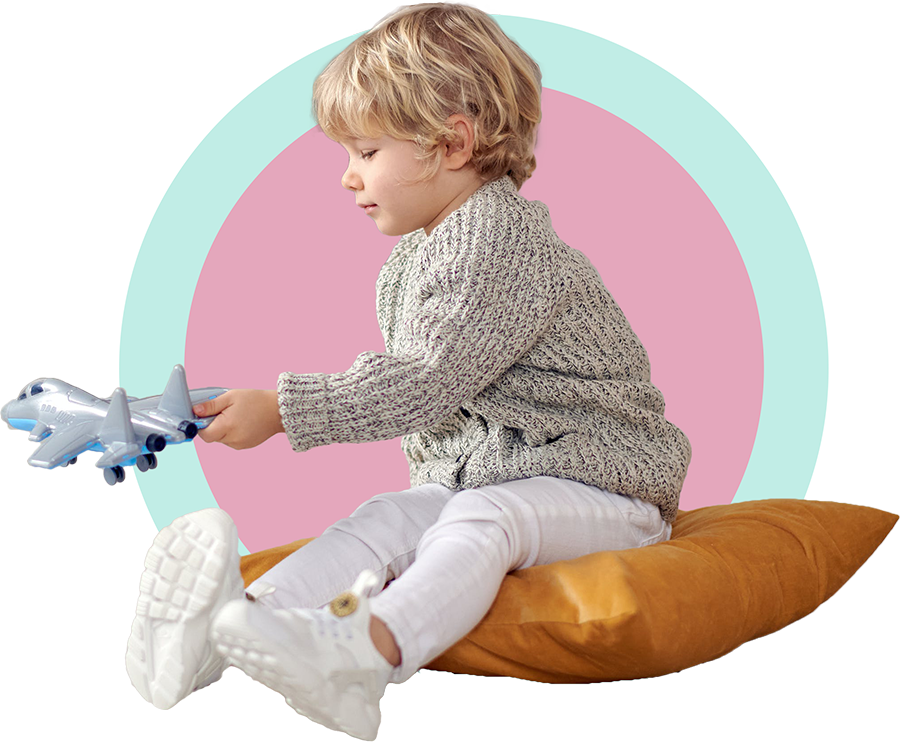
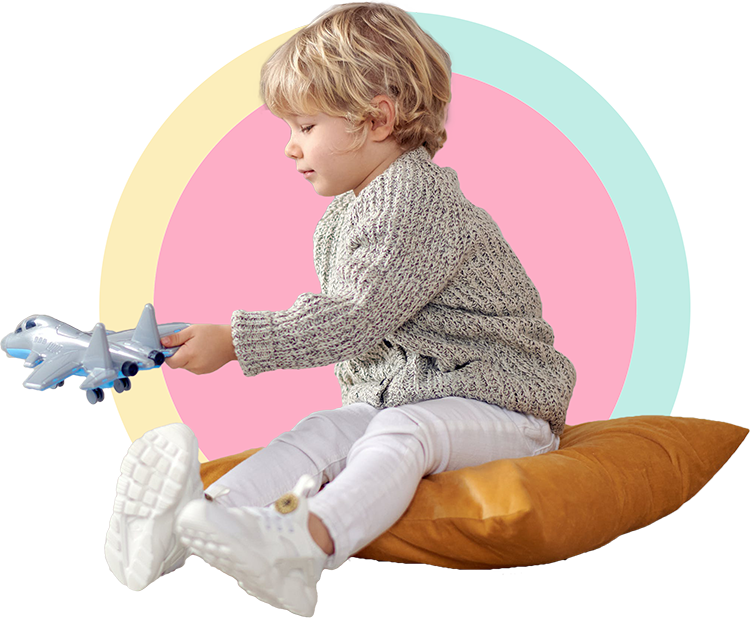
Add subpages.

Changed region(s): [[0.1227, 0.0307, 0.46, 0.5534], [0.5827, 0.123, 0.8587, 0.7071], [0.1533, 0.5841, 0.46, 0.7686]]

diff --git a/index.html b/index.html
@@ -5,7 +5,7 @@
         <meta name="viewport" content="width=device-width, initial-scale=1.0">
         <meta http-equiv="X-UA-Compatible" content="ie=edge">
         <title>HeartForward</title>
-        <link rel="stylesheet" href="style.css">
+        <link rel="stylesheet" href="styles/style.css">
         <link rel="preconnect" href="https://fonts.googleapis.com">
         <link rel="preconnect" href="https://fonts.gstatic.com" crossorigin>
         <link href="https://fonts.googleapis.com/css2?family=Poppins&display=swap" rel="stylesheet"> 
@@ -21,16 +21,16 @@
                     <a href="index.html">Home</a>
                 </li>
                 <li>
-                    <a href="index.html">About Me</a>
+                    <a href="pages/about-me.html">About Me</a>
                 </li>
                 <li>
-                    <a href="index.html">Services</a>
+                    <a href="pages/services.html">Services</a>
                 </li>
                 <li>
-                    <a href="index.html">FAQ</a>
+                    <a href="pages/faq.html">FAQ</a>
                 </li>
                 <li>
-                    <a href="index.html">Contact</a>
+                    <a href="pages/contact.html">Contact</a>
                 </li>
             </ul>
             
@@ -51,7 +51,7 @@
                     <button class="button-1" type="button"><p>CONTACT ME</p></button> 
                 </div>
                 <div class="landing-imgBx">
-                    <img src="images/boy-1.png" alt="Heart Forward Logo" width="500px">
+                    <img src="images/boy-1.png" alt="Heart Forward Logo" width="550px">
                 </div>
             </div>
             

diff --git a/pages/about-me.html b/pages/about-me.html
@@ -1,0 +1,43 @@
+<!DOCTYPE html>
+<html lang="en-nz">
+    <head>
+        <meta charset="UTF-8">
+        <meta name="viewport" content="width=device-width, initial-scale=1.0">
+        <meta http-equiv="X-UA-Compatible" content="ie=edge">
+        <title>HeartForward</title>
+        <link rel="stylesheet" href="../styles/style.css">
+        <link rel="preconnect" href="https://fonts.googleapis.com">
+        <link rel="preconnect" href="https://fonts.gstatic.com" crossorigin>
+        <link href="https://fonts.googleapis.com/css2?family=Poppins&display=swap" rel="stylesheet"> 
+    </head>
+<body>
+    <nav>
+        <div class="logo">
+            <img srcset="../images/lastry.png" alt="Heart Forward Logo">
+        </div>
+        <ul class="nav-links">
+            <li>
+                <a href="../index.html">Home</a>
+            </li>
+            <li>
+                <a href="about-me.html">About Me</a>
+            </li>
+            <li>
+                <a href="services.html">Services</a>
+            </li>
+            <li>
+                <a href="faq.html">FAQ</a>
+            </li>
+            <li>
+                <a href="contact.html">Contact</a>
+            </li>
+        </ul>
+        
+        <div class="burger">
+            <div class="line1"></div>
+            <div class="line2"></div>
+            <div class="line3"></div>
+        </div>
+    </nav>
+</body>
+</html>

diff --git a/pages/contact.html b/pages/contact.html
@@ -1,0 +1,43 @@
+<!DOCTYPE html>
+<html lang="en-nz">
+    <head>
+        <meta charset="UTF-8">
+        <meta name="viewport" content="width=device-width, initial-scale=1.0">
+        <meta http-equiv="X-UA-Compatible" content="ie=edge">
+        <title>HeartForward</title>
+        <link rel="stylesheet" href="../styles/style.css">
+        <link rel="preconnect" href="https://fonts.googleapis.com">
+        <link rel="preconnect" href="https://fonts.gstatic.com" crossorigin>
+        <link href="https://fonts.googleapis.com/css2?family=Poppins&display=swap" rel="stylesheet"> 
+    </head>
+<body>
+    <nav>
+        <div class="logo">
+            <img srcset="../images/lastry.png" alt="Heart Forward Logo">
+        </div>
+        <ul class="nav-links">
+            <li>
+                <a href="../index.html">Home</a>
+            </li>
+            <li>
+                <a href="about-me.html">About Me</a>
+            </li>
+            <li>
+                <a href="services.html">Services</a>
+            </li>
+            <li>
+                <a href="faq.html">FAQ</a>
+            </li>
+            <li>
+                <a href="contact.html">Contact</a>
+            </li>
+        </ul>
+        
+        <div class="burger">
+            <div class="line1"></div>
+            <div class="line2"></div>
+            <div class="line3"></div>
+        </div>
+    </nav>
+</body>
+</html>

diff --git a/pages/faq.html b/pages/faq.html
@@ -1,0 +1,43 @@
+<!DOCTYPE html>
+<html lang="en-nz">
+    <head>
+        <meta charset="UTF-8">
+        <meta name="viewport" content="width=device-width, initial-scale=1.0">
+        <meta http-equiv="X-UA-Compatible" content="ie=edge">
+        <title>HeartForward</title>
+        <link rel="stylesheet" href="../styles/style.css">
+        <link rel="preconnect" href="https://fonts.googleapis.com">
+        <link rel="preconnect" href="https://fonts.gstatic.com" crossorigin>
+        <link href="https://fonts.googleapis.com/css2?family=Poppins&display=swap" rel="stylesheet"> 
+    </head>
+<body>
+    <nav>
+        <div class="logo">
+            <img srcset="../images/lastry.png" alt="Heart Forward Logo">
+        </div>
+        <ul class="nav-links">
+            <li>
+                <a href="../index.html">Home</a>
+            </li>
+            <li>
+                <a href="about-me.html">About Me</a>
+            </li>
+            <li>
+                <a href="services.html">Services</a>
+            </li>
+            <li>
+                <a href="faq.html">FAQ</a>
+            </li>
+            <li>
+                <a href="contact.html">Contact</a>
+            </li>
+        </ul>
+        
+        <div class="burger">
+            <div class="line1"></div>
+            <div class="line2"></div>
+            <div class="line3"></div>
+        </div>
+    </nav>
+</body>
+</html>

diff --git a/pages/services.html b/pages/services.html
@@ -1,0 +1,43 @@
+<!DOCTYPE html>
+<html lang="en-nz">
+    <head>
+        <meta charset="UTF-8">
+        <meta name="viewport" content="width=device-width, initial-scale=1.0">
+        <meta http-equiv="X-UA-Compatible" content="ie=edge">
+        <title>HeartForward</title>
+        <link rel="stylesheet" href="../styles/style.css">
+        <link rel="preconnect" href="https://fonts.googleapis.com">
+        <link rel="preconnect" href="https://fonts.gstatic.com" crossorigin>
+        <link href="https://fonts.googleapis.com/css2?family=Poppins&display=swap" rel="stylesheet"> 
+    </head>
+<body>
+    <nav>
+        <div class="logo">
+            <img srcset="../images/lastry.png" alt="Heart Forward Logo">
+        </div>
+        <ul class="nav-links">
+            <li>
+                <a href="../index.html">Home</a>
+            </li>
+            <li>
+                <a href="about-me.html">About Me</a>
+            </li>
+            <li>
+                <a href="services.html">Services</a>
+            </li>
+            <li>
+                <a href="faq.html">FAQ</a>
+            </li>
+            <li>
+                <a href="contact.html">Contact</a>
+            </li>
+        </ul>
+        
+        <div class="burger">
+            <div class="line1"></div>
+            <div class="line2"></div>
+            <div class="line3"></div>
+        </div>
+    </nav>
+</body>
+</html>

diff --git a/styles/style.css b/styles/style.css
@@ -122,11 +122,11 @@ main {
   display: flex;
   flex-direction: row;
   justify-content: space-around;
-  padding: 50px 400px 0 400px;
+  padding: 70px 400px 0 400px;
 }
 
 .landing-content {
-  padding: 50px 50px 0 0;
+  padding: 20px 50px 0 0;
 }
 
 /* .landing-content span {
